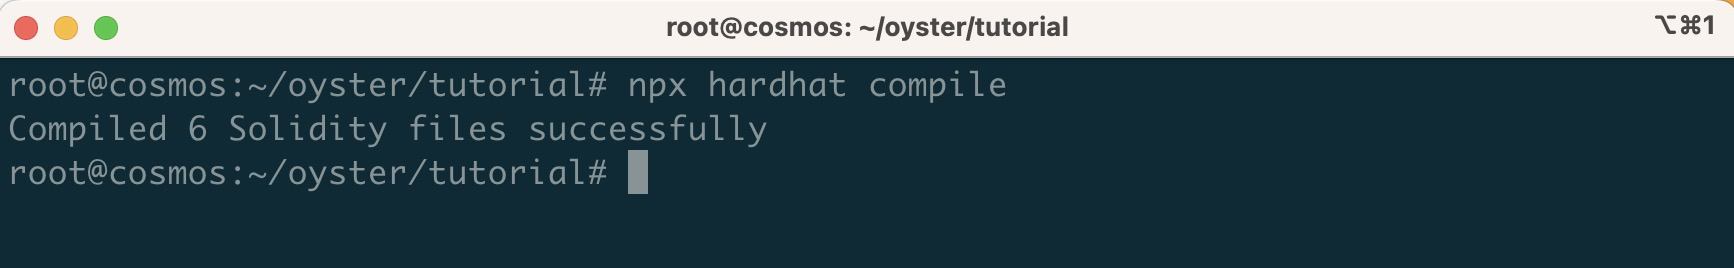
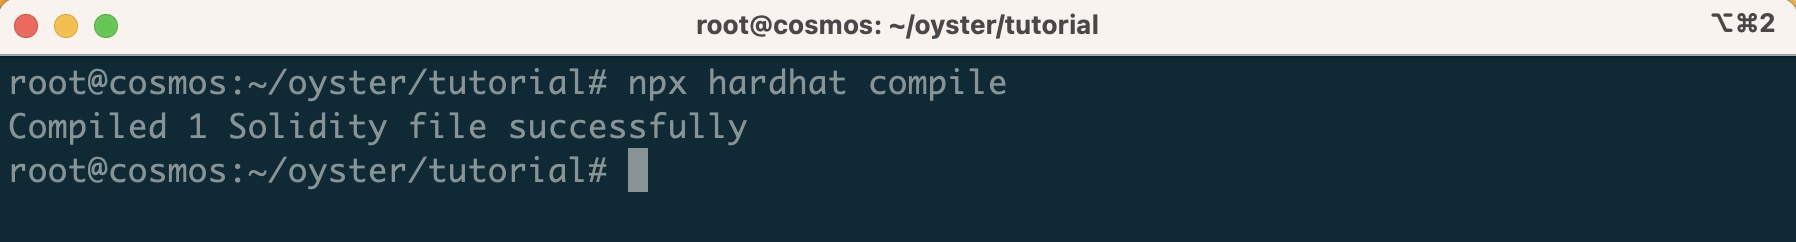
add contract interaction section

diff --git a/tutorial/scripts/deploy.js b/tutorial/scripts/deploy.js
@@ -1,9 +1,9 @@
 async function main() {
   const [deployer] = await ethers.getSigners();
-  console.log(`Deploying contracts with the account: ${deployer.address}`);    
-  const tokenContract = await ethers.deployContract('MintableERC20');
+  console.log(`Deploying contract with the account: ${deployer.address}`);    
+  const tokenContract = await ethers.deployContract('OttoToken');
   const deployedAddress = await tokenContract.getAddress();
-  console.log(`Deployed MintableERC20 to the address: ${deployedAddress}`);
+  console.log(`Deployed contract to the address: ${deployedAddress}`);
 }
 
 main().catch((error) => {

diff --git a/tutorial/README.md b/tutorial/README.md
@@ -57,14 +57,14 @@ touch secrets.json
 The below content is the private key of the pre-funded account `test` in OttoChain Testnet, you can copy and paste it into `secrets.json`.
 
 ```
[2 lines of base64/hex data omitted]
 ```
 
 Your `secrets.json` should resemble the following:
 
 ```json
 {
[2 lines of base64/hex data omitted]
 }
 ```
 
@@ -237,7 +237,34 @@ You can open [OttoChain Testnet Explorer](http://34.69.4.240:4000/) and search t
 
 ![Search the Contract with Explorer.](./images/explorer-search-contract.jpg)
 
+## Interact with the Contract with MetaMask
+
+To get started, take the following steps:
+
+1. You can connect MetaMask to OttoChain Testnet by clicking on the network dropdown and selecting **Add network**.
+
+![Add network on MetaMask.](./images/metamask-add-network.jpg)
+
+2. Import the pre-funded account `test` into MetaMask with the private key.
+
+![Import account into MetaMask.](./images/metamask-import-account.jpg)
+
+On the import screen, select Private Key and paste in the private key above.
+
+![Import private into MetaMask.](./images/metamask-import-private.jpg)
+
+3. Import the token with the contract address, then do the contract interaction to send some tokens to the another address with the account `test`.
+
+![Import token into MetaMask.](./images/metamask-import-token.jpg)
+
+![Send transaction with MetaMask.](./images/metamask-send-tx.jpg)
+
+4. To check the transaction details with [OttoChain Testnet Explorer](http://34.69.4.240:4000/).
+
+![Check transaction with MetaMask.](./images/metamask-check-tx.jpg)
+
+![Check transaction details with Explorer.](./images/explorer-tx-details.jpg)
+
 ## Conclusion
 
 You can view the complete [tutorial on GitHub](https://github.com/octopus-network/oyster/tree/ottochain/tutorial).
-
